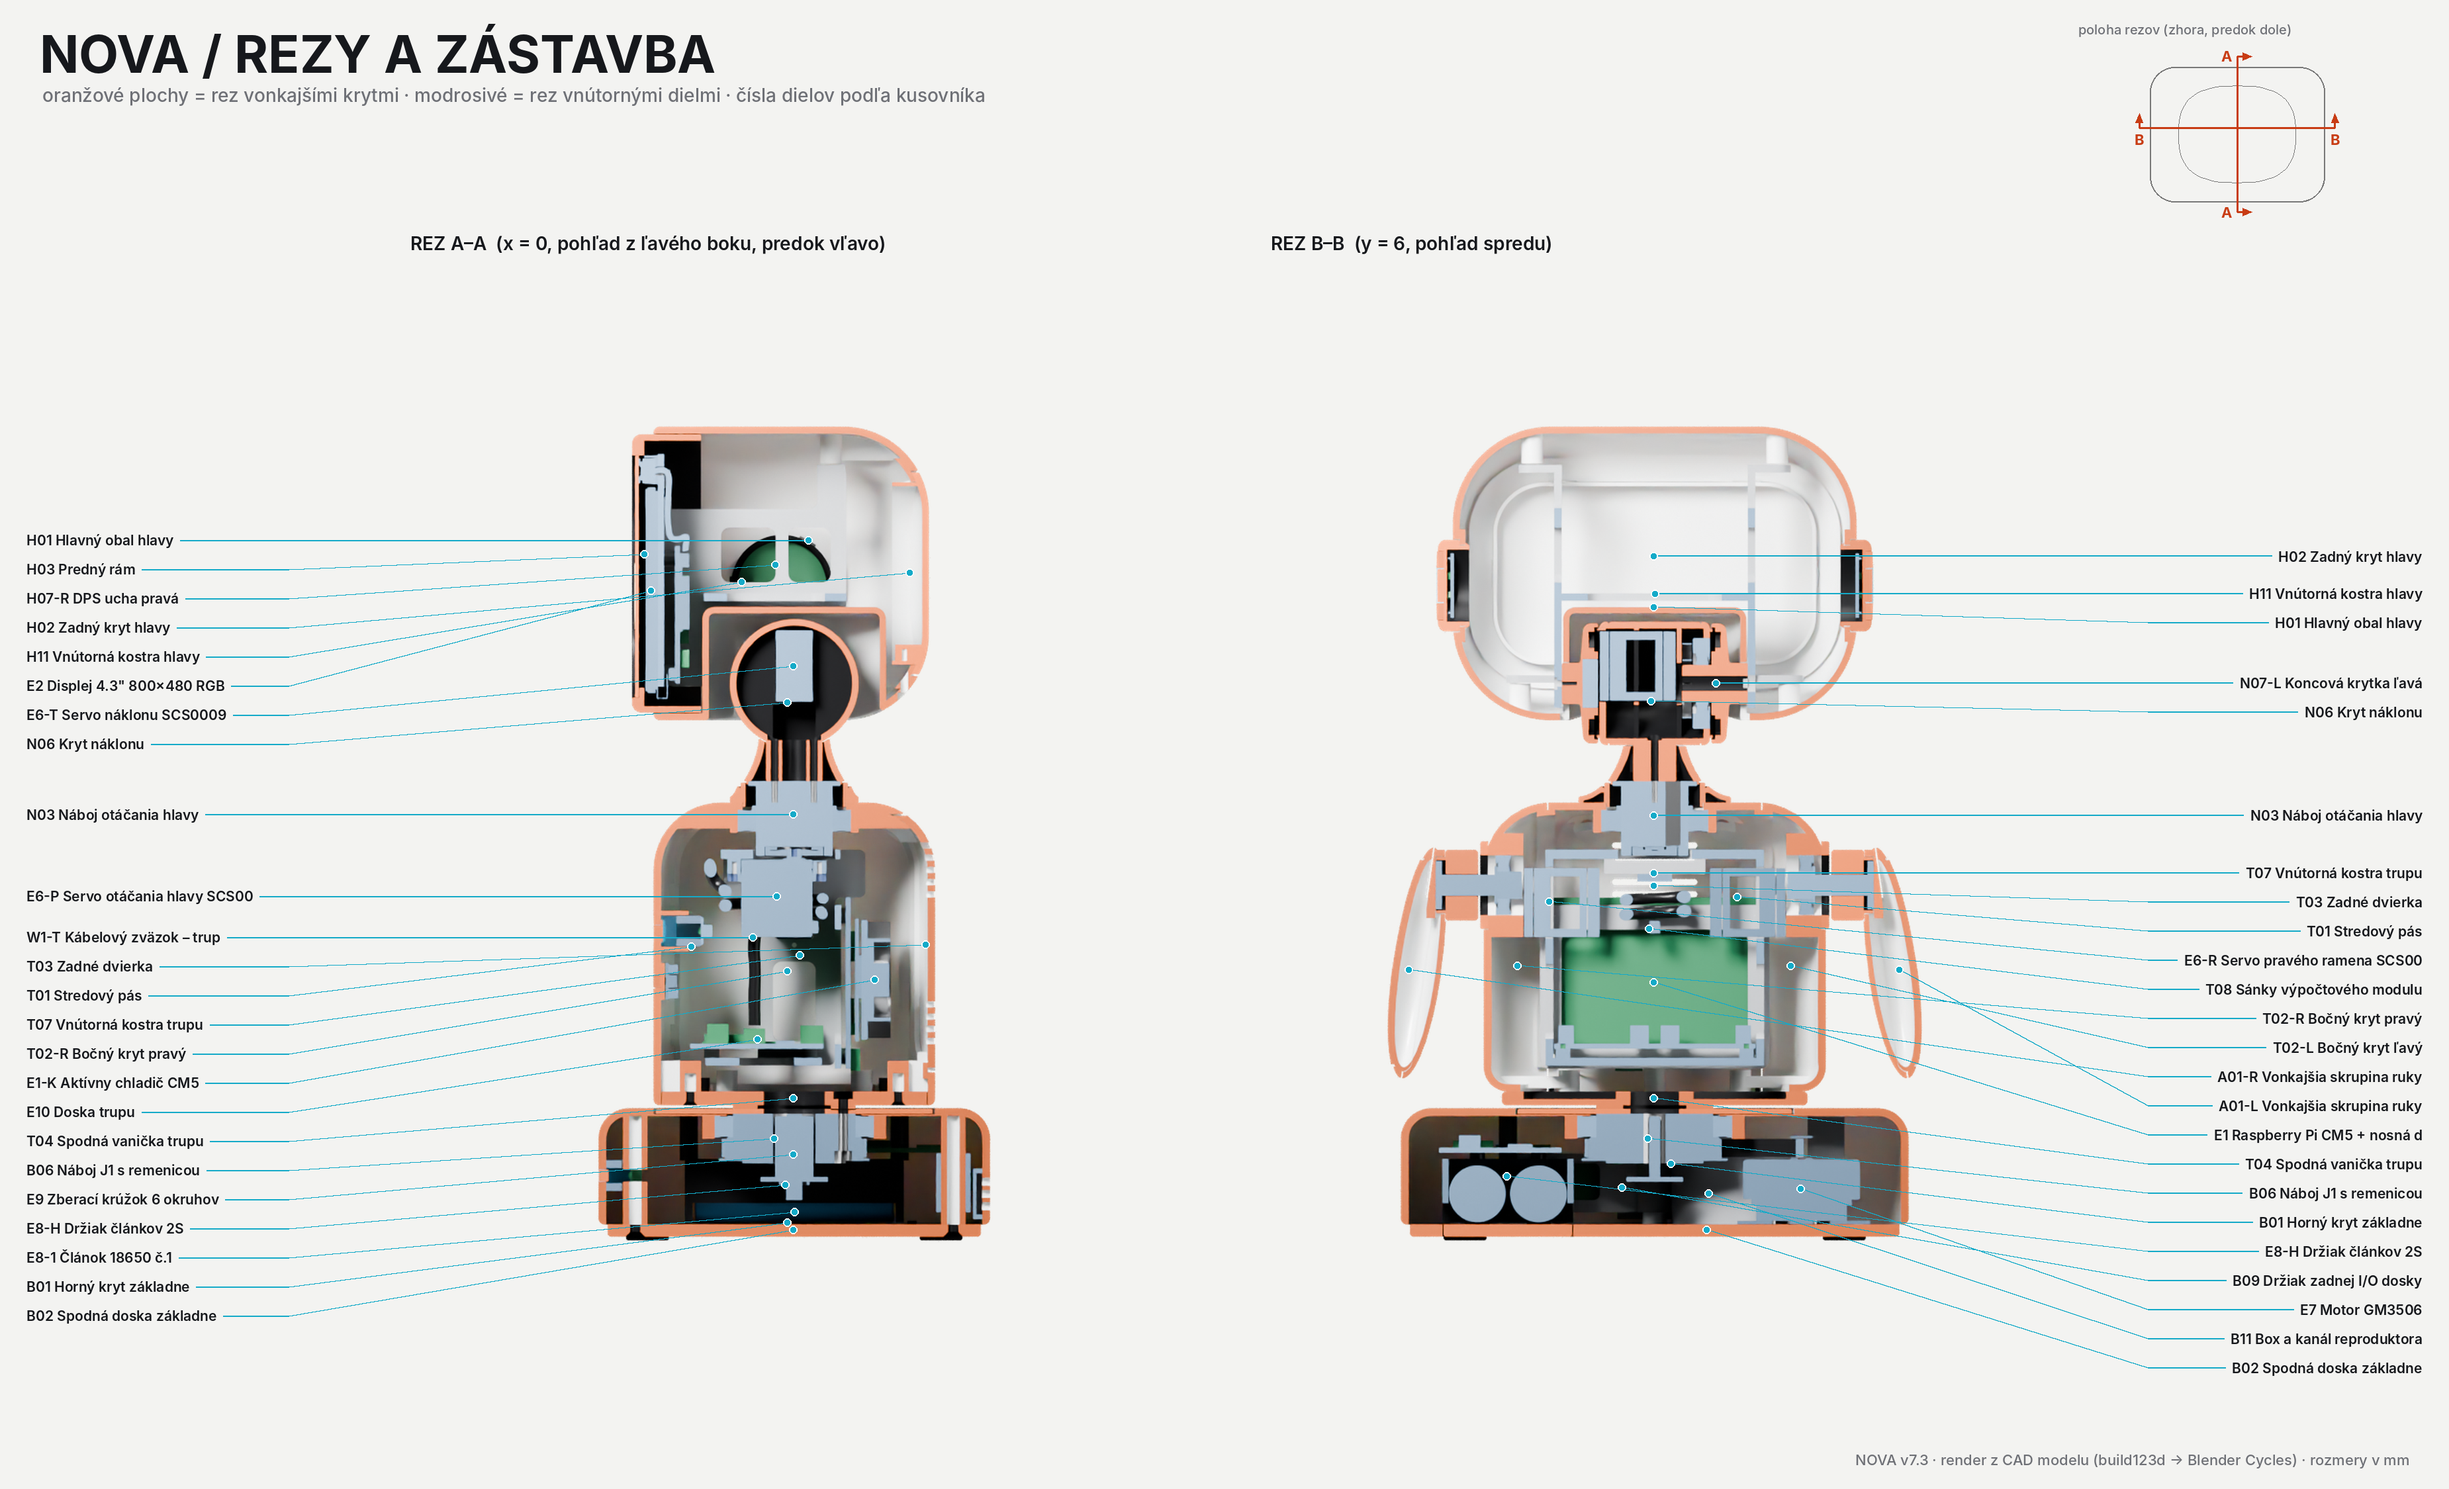
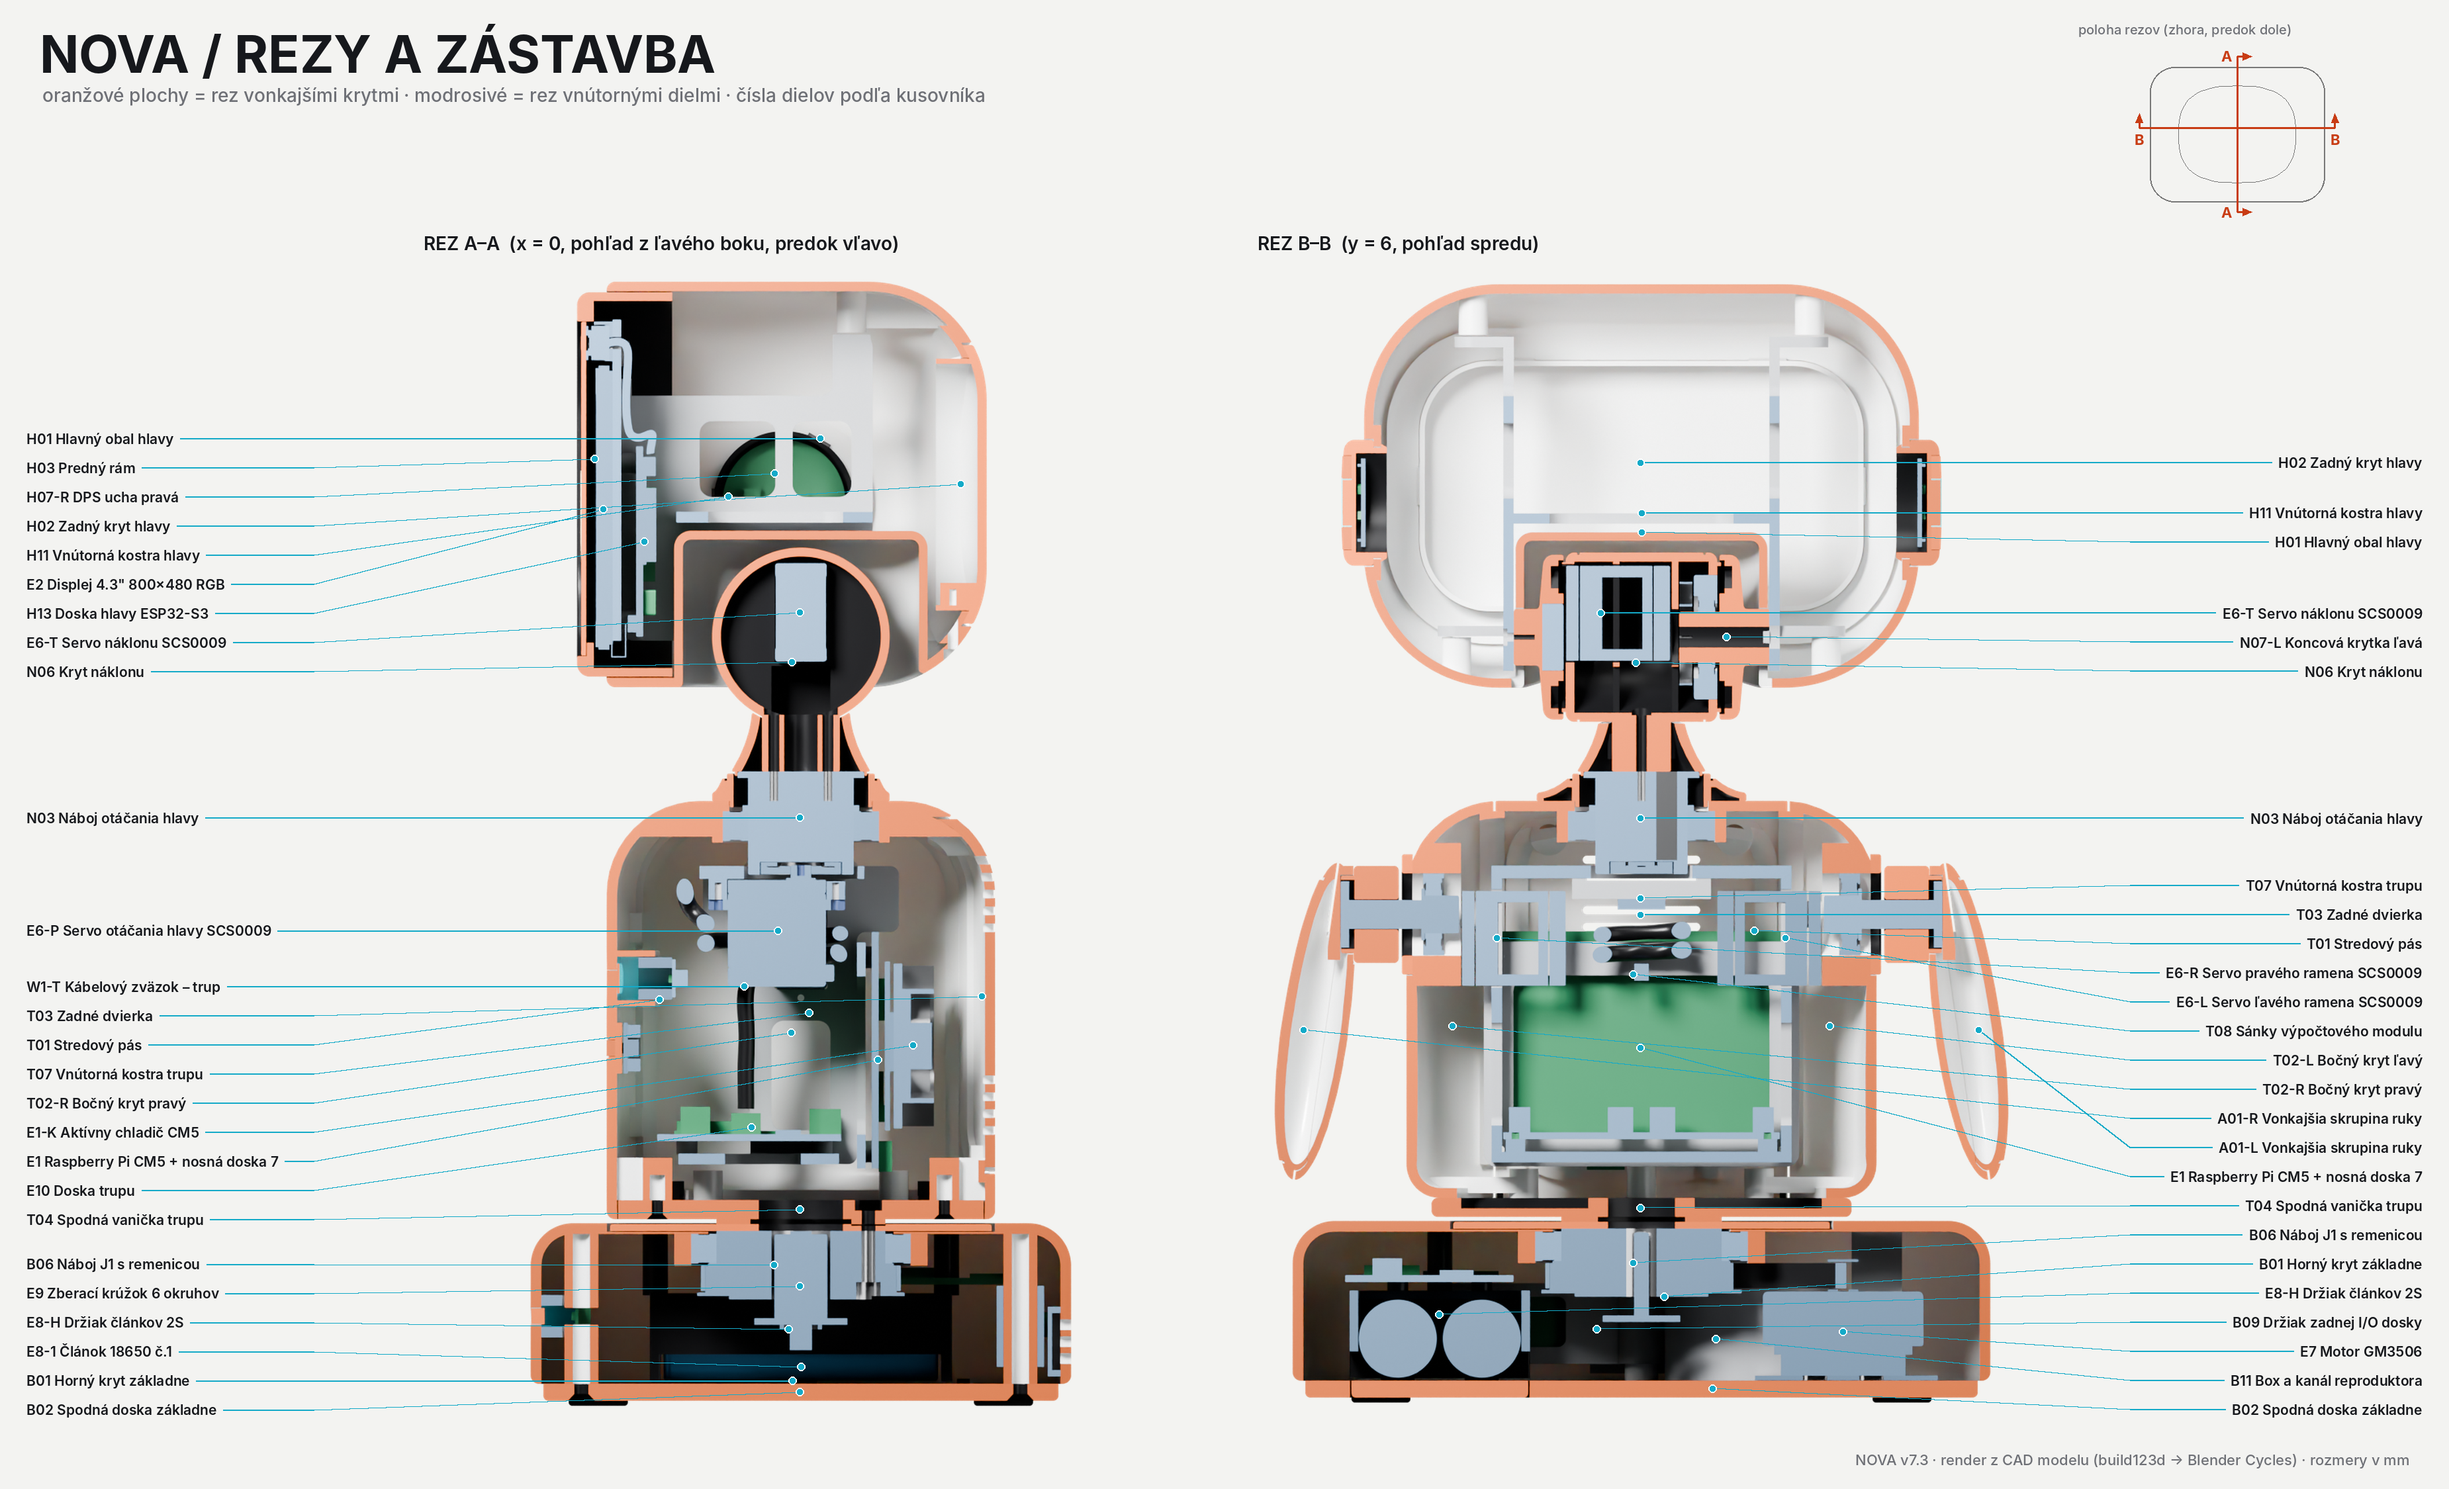
NOVA mini (v8) concept spec; final v7.3 render progress
Claude-Session: https://claude.ai/code/session_01N8NysgmBVvUJuw9UGwdpKH

diff --git a/nova_v8/concept.py b/nova_v8/concept.py
@@ -1,0 +1,53 @@
+"""
+NOVA mini (v8) – CONCEPT dimensions (mm).  Same coordinate system as v7: Z up, origin on the floor
+under the centre of the base, robot FRONT = -Y, robot RIGHT = -X.  Pure Python.
+
+This is a concept-stage spec for quick sketches (head A vs head B on a common mini body).
+Exports go to build_v8/ (NOT build/, which holds the finished v7.3 model).
+"""
+
+NAME = "NOVA mini"
+VERSION = "v8-koncept"
+TARGET_H = 190.0
+
+# ---- base: drive module with 2 wheels + 2 ball casters, torso-yaw servo in the centre ----
+BASE = dict(
+    w=130.0, d=108.0, z0=0.0, z1=38.0, plan_r=26.0, top_fillet=8.0,
+    ground_clear=4.0,                                   # underside of the shell above the floor
+    wheel=dict(d=36.0, w=10.0, x=52.0, y=4.0),          # wheels at x=±52 (axle slightly behind centre)
+    caster=dict(d=12.0, y=(-40.0, 44.0)),               # front/back ball casters
+    cliff_sensors=[(52, -44), (-52, -44), (52, 44), (-52, 44)],   # IR/ToF looking down, at the corners
+    led=dict(w=40.0, h=3.5, z=20.0),                    # front light guide
+    batteries="2x 18650 along X, front and back of the yaw servo",
+    yaw=dict(servo="Feetech STS3215 (kovové prevody, magnetický enkodér) – zvislo v strede",
+             bearing="tenkostenné ložisko 6806-2RS (30/42x7) alebo točňa", range="±150° (slučka kábla, bez zberacieho krúžku)"),
+)
+
+# ---- torso: rotates on the base (J1 = servo, direct drive through the bearing) ----
+TORSO = dict(z0=39.0, z1=104.0, w=88.0, d=72.0, n=2.7, r_top=16.0, r_bottom=8.0,
+             led=dict(w=28.0, h=3.5, z=84.0), shoulder_z=88.0)
+
+# ---- neck: pan servo in the torso top, short collar, tilt barrel under the head ----
+NECK = dict(collar=dict(w=42.0, d=34.0, z0=104.0, z1=109.0), cone=dict(z0=109.0, z1=116.0, r_bottom=13.0, r_top=10.0),
+            tilt_axis=dict(y=0.0, z=126.0), barrel_d=30.0, barrel_len=30.0)
+
+# ---- head (both variants): ESP32-S3 + 3.5" IPS 480x320 on one board ----
+DISPLAY = dict(outline=(86.0, 56.0, 6.0), active=(73.44, 48.96), note="3.5\" IPS 480x320 (ST7796/ILI9488), QSPI/SPI, s ESP32-S3")
+HEAD = dict(z0=116.0, z1=190.0, w=106.0, d=66.0, zc=153.0)
+
+HEAD_A = dict(   # "ako na fotke": rounded box, protruding black bezel, flat glass, ear discs with LED rings
+    w=106.0, h=74.0, y0=-33.0, y1=33.0, r_front_view=26.0, r_back=20.0,
+    bezel=dict(w=101.0, h=69.0, r=23.5, protrude=5.0), glass=dict(w=92.0, h=60.0, r=16.0, zc=153.0),
+    ear=dict(d=28.0, protrude=4.0, y=-3.0, z=153.0, ring_od=23.0, ring_id=17.0),
+    eyes=dict(w=10.5, h=17.5, r=5.25, x=10.0, z=150.0),
+)
+HEAD_B = dict(   # "kapsula s vizorom": very round capsule, black curved visor wrapping into the sides
+    w=110.0, h=76.0, d=70.0, r_front_view=34.0, r_back=26.0,
+    visor=dict(arc_w=118.0, h=54.0, r_plan=95.0, zc=154.0, wrap=14.0),   # cylindrical visor, wraps 14 mm into the sides
+    ear=dict(d=24.0, flush=True, y=4.0, z=154.0, ring_od=24.0, ring_id=18.0),
+    eyes=dict(w=11.0, h=18.0, r=5.5, x=10.5, z=151.0),
+)
+
+# ---- arms (concept): smaller paddles, same idea as v7.3 ----
+ARM = dict(axis=dict(y=0.0, z=88.0), egg=dict(top_z=98.0, widest_z=70.0, bottom_z=47.0, half_w=13.0, half_t=7.0),  # bottom 9 mm above the base top: torso yaw sweeps the arms over the base
+           mid_x=58.0, abduction_deg=8.0)
